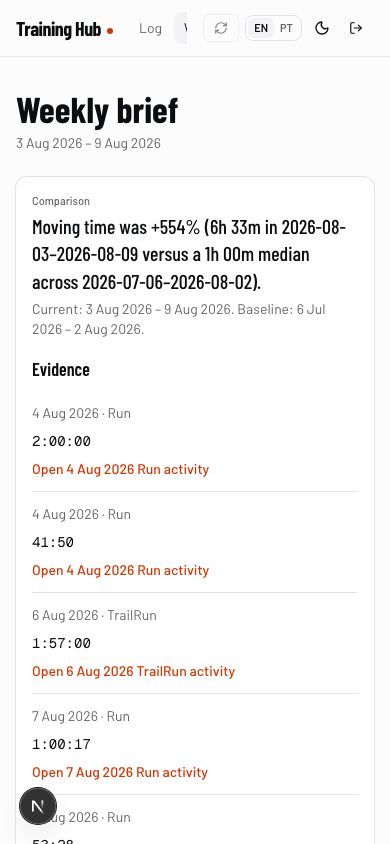
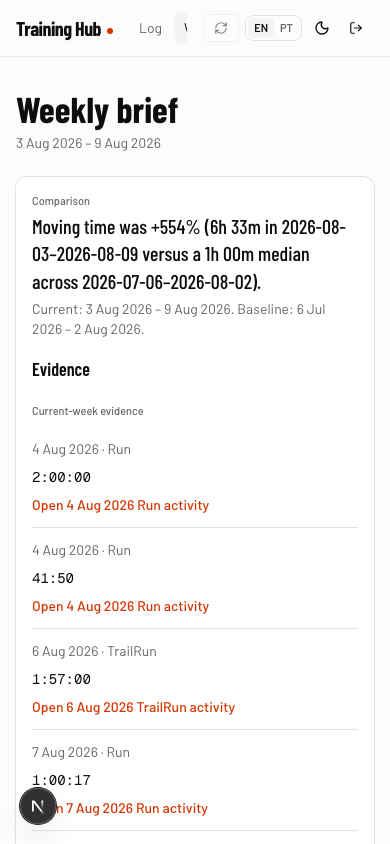
fix: clarify weekly brief evidence

Changed region(s): [[0.0615, 0.4621, 0.6154, 1.0], [0.0923, 0.9858, 0.1231, 1.0]]

diff --git a/src/app/weekly-brief/weekly-brief-view.tsx b/src/app/weekly-brief/weekly-brief-view.tsx
@@ -34,8 +34,23 @@ function SourceRow({ source }: { source: WeeklyBriefSource }) {
   );
 }
 
+function EvidenceGroup({ heading, sources }: { heading: string; sources: WeeklyBriefSource[] }) {
+  const id = heading === "Current-week evidence" ? "current-week-evidence" : "baseline-evidence";
+  return (
+    <section aria-labelledby={id} className="mt-5 first:mt-2">
+      <h3 id={id} className="label-micro">
+        {heading}
+      </h3>
+      <ul className="mt-2">
+        {sources.map((source) => (
+          <SourceRow key={`${source.id}-${source.date}`} source={source} />
+        ))}
+      </ul>
+    </section>
+  );
+}
+
 function Observation({ observation }: { observation: WeeklyBriefObservation }) {
-  const allSources = [...observation.sources.current, ...observation.sources.baseline];
   return (
     <>
       <Card>
@@ -53,11 +68,8 @@ function Observation({ observation }: { observation: WeeklyBriefObservation }) {
         </CardHeader>
         <CardContent>
           <h2 className="font-display text-lg font-semibold">Evidence</h2>
-          <ul className="mt-2">
-            {allSources.map((source) => (
-              <SourceRow key={`${source.id}-${source.date}`} source={source} />
-            ))}
-          </ul>
+          <EvidenceGroup heading="Current-week evidence" sources={observation.sources.current} />
+          <EvidenceGroup heading="Baseline evidence" sources={observation.sources.baseline} />
         </CardContent>
       </Card>
       <details className="mt-6 rounded-xl border bg-card px-4 py-3">

diff --git a/src/app/weekly-brief/weekly-brief-view.test.tsx b/src/app/weekly-brief/weekly-brief-view.test.tsx
@@ -1,6 +1,6 @@
 // @vitest-environment jsdom
 import { afterEach, describe, expect, it } from "vitest";
-import { cleanup, render, screen } from "@testing-library/react";
+import { cleanup, render, screen, within } from "@testing-library/react";
 import { WeeklyBriefView } from "./weekly-brief-view";
 import { buildWeeklyBrief } from "@/lib/weekly-brief";
 
@@ -27,8 +27,12 @@ describe("WeeklyBriefView", () => {
     });
     render(<WeeklyBriefView result={result} />);
     expect(screen.getByRole("heading", { name: "Evidence" })).toBeTruthy();
+    expect(screen.getByRole("region", { name: "Current-week evidence" })).toBeTruthy();
+    expect(screen.getByRole("region", { name: "Baseline evidence" })).toBeTruthy();
     expect(
-      screen.getByRole("link", { name: "Open 4 Aug 2026 Run activity" }).getAttribute("href")
+      within(screen.getByRole("region", { name: "Current-week evidence" }))
+        .getByRole("link", { name: "Open 4 Aug 2026 Run activity" })
+        .getAttribute("href")
     ).toBe("/activity/4");
     expect(
       screen.getByText("Baseline has activity in 3 of the previous 4 completed weeks.")

diff --git a/e2e/weekly-brief.spec.ts b/e2e/weekly-brief.spec.ts
@@ -8,5 +8,14 @@ test("weekly brief renders the completed-week route with source evidence", async
     "page"
   );
   await expect(page.getByText(/How this comparison is calculated/)).toBeVisible();
+  const currentEvidence = page.getByRole("region", { name: "Current-week evidence" });
+  const baselineEvidence = page.getByRole("region", { name: "Baseline evidence" });
+  await expect(currentEvidence).toBeVisible();
+  await expect(baselineEvidence).toBeVisible();
   await expect(page.locator("main")).not.toContainText("fresh");
+  const source = currentEvidence.getByRole("link", { name: /^Open .+ activity$/ }).first();
+  await expect(source).toBeVisible();
+  await source.click();
+  await expect(page).toHaveURL(/\/activity\/\d+$/);
+  await expect(page.getByRole("main")).toBeVisible();
 });

diff --git a/src/app/weekly-brief/error.test.tsx b/src/app/weekly-brief/error.test.tsx
@@ -7,6 +7,9 @@ describe("WeeklyBriefError", () => {
   it("announces the safe route error and retries through the boundary reset", () => {
     const reset = vi.fn();
     render(<WeeklyBriefError error={new Error("database detail")} reset={reset} />);
+    expect(
+      screen.getByRole("heading", { level: 1, name: "We couldn’t load this weekly brief." })
+    ).toBeTruthy();
     expect(screen.getByRole("alert").textContent).toContain("We couldn’t load this weekly brief.");
     fireEvent.click(screen.getByRole("button", { name: "Try again" }));
     expect(reset).toHaveBeenCalledOnce();

diff --git a/src/app/weekly-brief/error.tsx b/src/app/weekly-brief/error.tsx
@@ -12,7 +12,11 @@ export default function WeeklyBriefError({
   return (
     <div className="mx-auto w-full max-w-3xl px-4 py-8 sm:px-6">
       <Alert variant="destructive">
-        <AlertTitle>We couldn’t load this weekly brief.</AlertTitle>
+        <AlertTitle>
+          <h1 className="font-display text-xl font-semibold">
+            We couldn’t load this weekly brief.
+          </h1>
+        </AlertTitle>
         <AlertDescription>Try again to load the completed-week comparison.</AlertDescription>
       </Alert>
       <Button className="mt-4" onClick={reset}>
